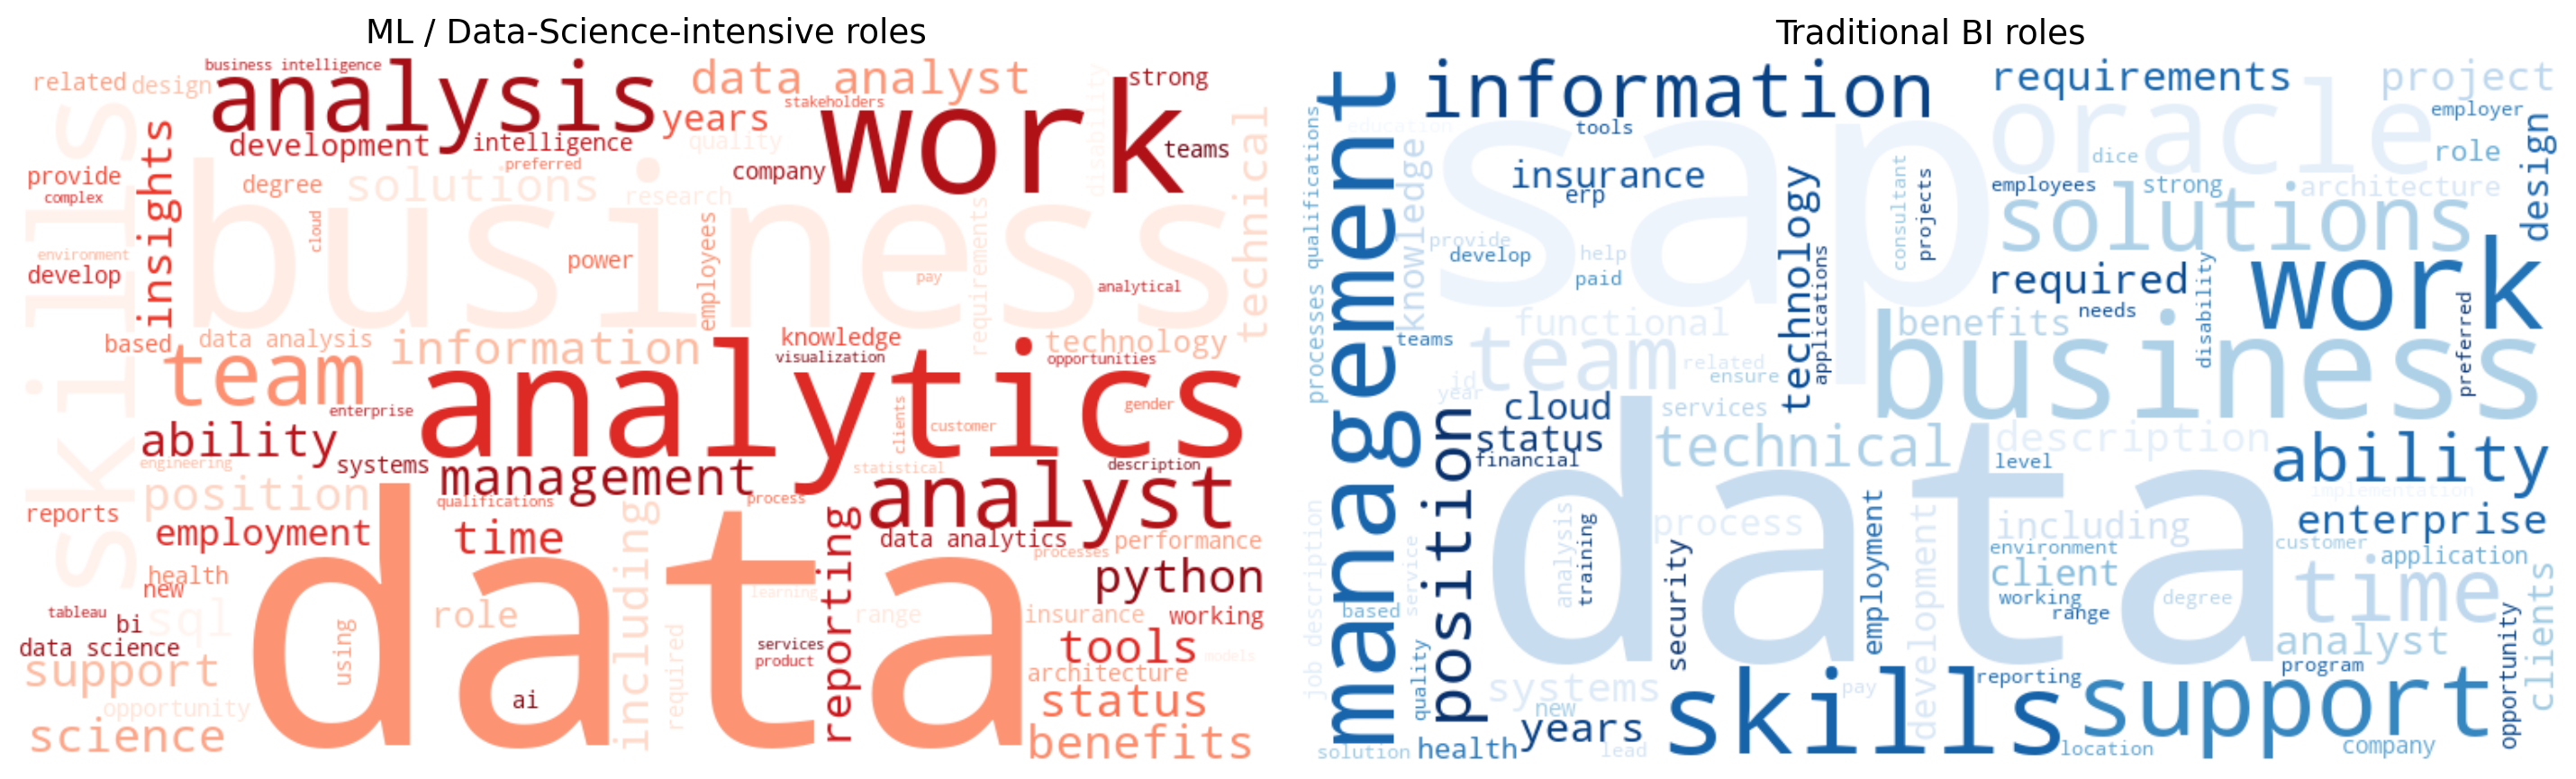
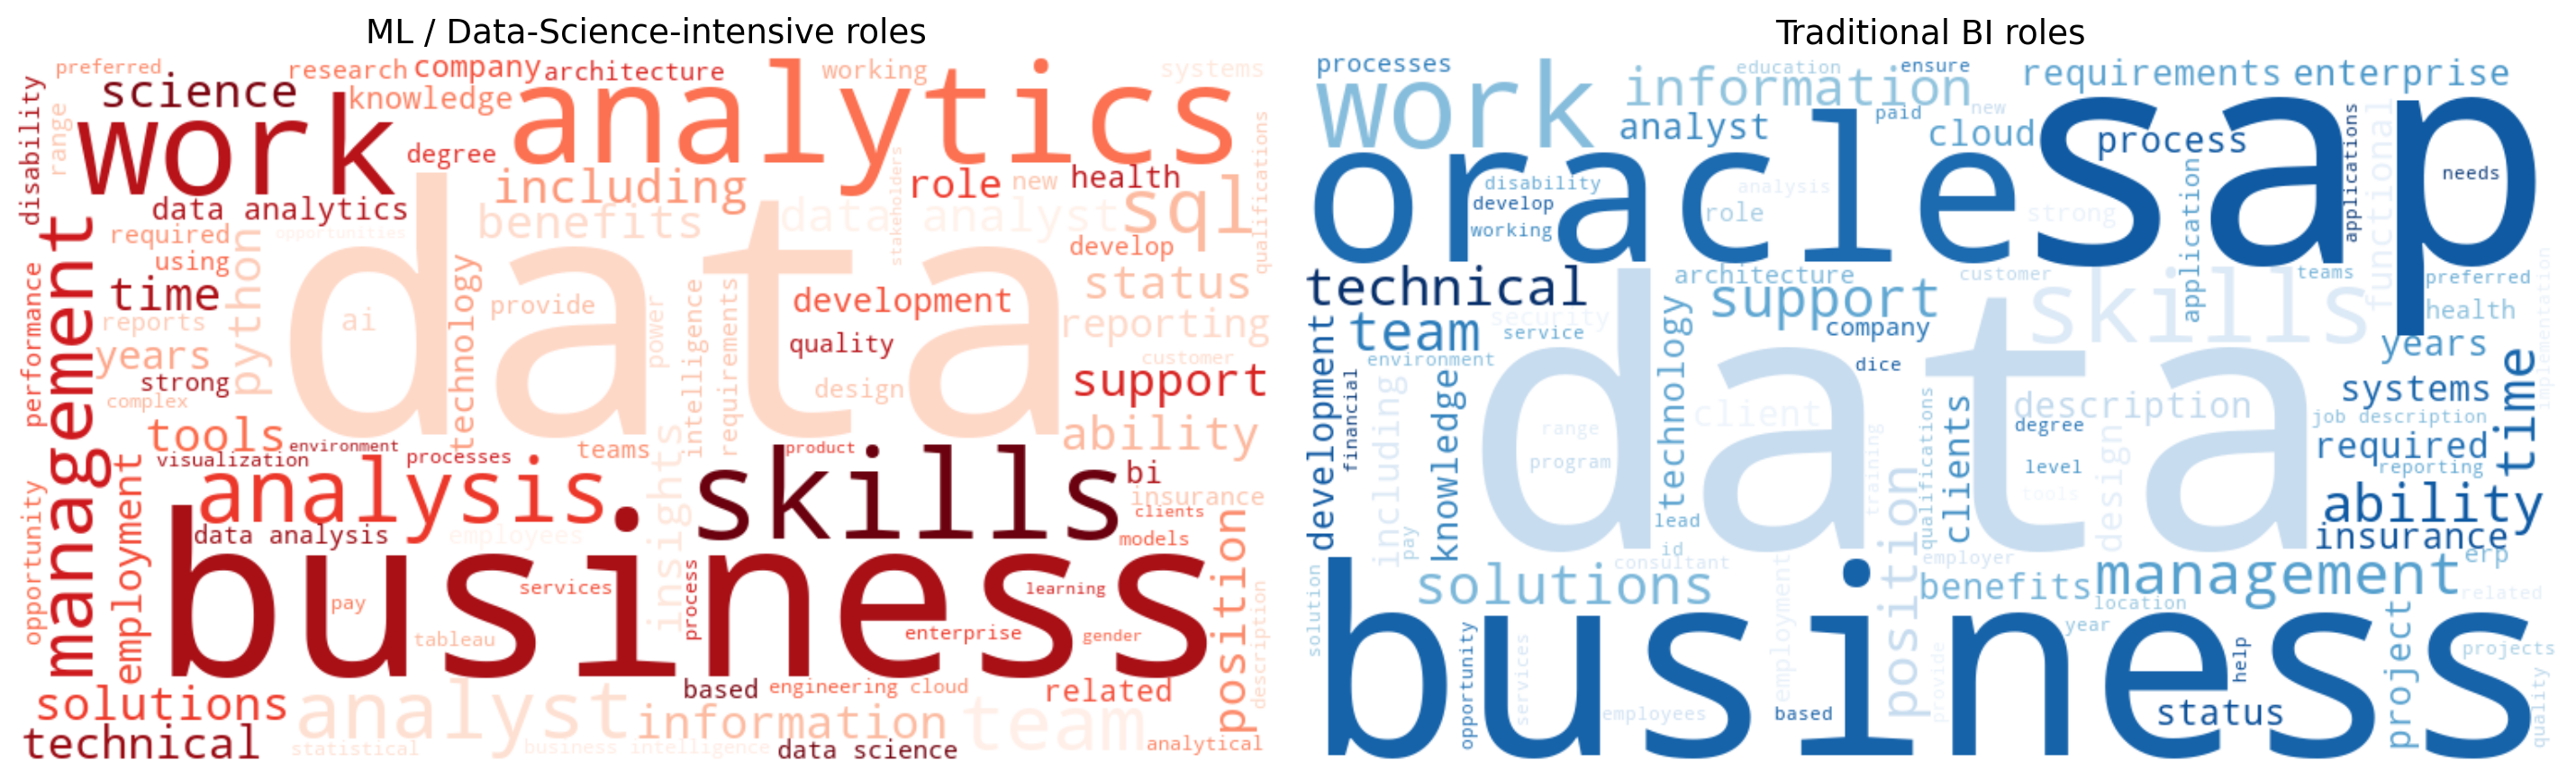
update website

diff --git a/docs/data_analysis.html b/docs/data_analysis.html
@@ -6,7 +6,6 @@
 
 <meta name="viewport" content="width=device-width, initial-scale=1.0, user-scalable=yes">
 
-<meta name="author" content="Simon Hamra">
 <meta name="author" content="Miao Liu">
 
 <title>Data Analysis – Data Science &amp; BA Trends</title>
@@ -178,14 +177,9 @@ div.csl-indent {
 
 
 <div class="quarto-title-meta-author">
-  <div class="quarto-title-meta-heading">Authors</div>
+  <div class="quarto-title-meta-heading">Author</div>
   <div class="quarto-title-meta-heading">Affiliation</div>
   
-    <div class="quarto-title-meta-contents">
-    <p class="author">Simon Hamra </p>
-  </div>
-  <div class="quarto-title-meta-contents">
-      </div>
     <div class="quarto-title-meta-contents">
     <p class="author">Miao Liu </p>
   </div>

diff --git a/docs/index.html b/docs/index.html
@@ -6,6 +6,7 @@
 
 <meta name="viewport" content="width=device-width, initial-scale=1.0, user-scalable=yes">
 
+<meta name="author" content="Miao Liu">
 
 <title>Job Market Analytics: Data Science &amp; Business Analytics Trends (2024) – Data Science &amp; BA Trends</title>
 <style>
@@ -174,6 +175,12 @@ ul.task-list li input[type="checkbox"] {
 
 <div class="quarto-title-meta">
 
+    <div>
+    <div class="quarto-title-meta-heading">Author</div>
+    <div class="quarto-title-meta-contents">
+             <p>Miao Liu </p>
+          </div>
+  </div>
     
   
     

diff --git a/docs/skill_gap_analysis.html b/docs/skill_gap_analysis.html
@@ -216,7 +216,7 @@ pre > code.sourceCode > span > a:first-child::before { text-decoration: underlin
 4 = Advanced
 5 = Expert</code></pre>
 <p>Orignally, we thought relevant skills would include coding languages, machine learning, and cloud computing. The following heatmap helps you visualize which group members excelled in which of these skillsets.</p>
-<div id="6d7b8912" class="cell" data-execution_count="1">
+<div id="[phone redacted]" class="cell" data-execution_count="1">
 <details class="code-fold">
 <summary>Show the code</summary>
 <div class="code-copy-outer-scaffold"><div class="sourceCode cell-code" id="cb2"><pre class="sourceCode python code-with-copy"><code class="sourceCode python"><span id="cb2-1"><a href="#cb2-1" aria-hidden="true" tabindex="-1"></a><span class="im">import</span> pandas <span class="im">as</span> pd</span>
@@ -257,7 +257,7 @@ pre > code.sourceCode > span > a:first-child::before { text-decoration: underlin
 <section id="comparing-team-skills-to-industry-requirements" class="level2">
 <h2 class="anchored" data-anchor-id="comparing-team-skills-to-industry-requirements">Comparing Team Skills to Industry Requirements</h2>
 <p>After completing the exploratory data visualizations, it became apparent that the skills we assumed would be in highest demand were not all found in the top 10 in-demand skills of the dataset. After updating our list of skills, using the same numerical scale to indicate proficiency levels, we were able to compare our teams skills to the industry’s demands.</p>
-<div id="711dcbfd" class="cell" data-execution_count="2">
+<div id="8d92b318" class="cell" data-execution_count="2">
 <details class="code-fold">
 <summary>Show the code</summary>
 <div class="code-copy-outer-scaffold"><div class="sourceCode cell-code" id="cb3"><pre class="sourceCode python code-with-copy"><code class="sourceCode python"><span id="cb3-1"><a href="#cb3-1" aria-hidden="true" tabindex="-1"></a>skills_data <span class="op">=</span> {</span>
@@ -383,7 +383,7 @@ pre > code.sourceCode > span > a:first-child::before { text-decoration: underlin
 </div>
 </div>
 <p>An updated heatmap could now be created with an accurate representation of our team’s skills in comparison to the industry’s requirements.</p>
-<div id="1fc5a81c" class="cell" data-execution_count="3">
+<div id="dba6a31e" class="cell" data-execution_count="3">
 <details class="code-fold">
 <summary>Show the code</summary>
 <div class="code-copy-outer-scaffold"><div class="sourceCode cell-code" id="cb4"><pre class="sourceCode python code-with-copy"><code class="sourceCode python"><span id="cb4-1"><a href="#cb4-1" aria-hidden="true" tabindex="-1"></a><span class="co"># Heat map of skill level data frame</span></span>

diff --git a/docs/advanced_visualizations.html b/docs/advanced_visualizations.html
@@ -6,7 +6,7 @@
 
 <meta name="viewport" content="width=device-width, initial-scale=1.0, user-scalable=yes">
 
-<meta name="author" content="Meera Chaddha">
+<meta name="author" content="Miao Liu">
 
 <title>Advanced Visualizations – Data Science &amp; BA Trends</title>
 <style>
@@ -179,7 +179,7 @@ div.csl-indent {
   <div class="quarto-title-meta-heading">Affiliation</div>
   
     <div class="quarto-title-meta-contents">
-    <p class="author">Meera Chaddha </p>
+    <p class="author">Miao Liu </p>
   </div>
   <div class="quarto-title-meta-contents">
         <p class="affiliation">

diff --git a/docs/eda.html b/docs/eda.html
@@ -6,7 +6,7 @@
 
 <meta name="viewport" content="width=device-width, initial-scale=1.0, user-scalable=yes">
 
-<meta name="author" content="Meera Chaddha">
+<meta name="author" content="Miao Liu">
 
 <title>Exploratory Data Analysis – Data Science &amp; BA Trends</title>
 <style>
@@ -161,7 +161,7 @@ ul.task-list li input[type="checkbox"] {
   <div class="quarto-title-meta-heading">Affiliation</div>
   
     <div class="quarto-title-meta-contents">
-    <p class="author">Meera Chaddha </p>
+    <p class="author">Miao Liu </p>
   </div>
   <div class="quarto-title-meta-contents">
         <p class="affiliation">